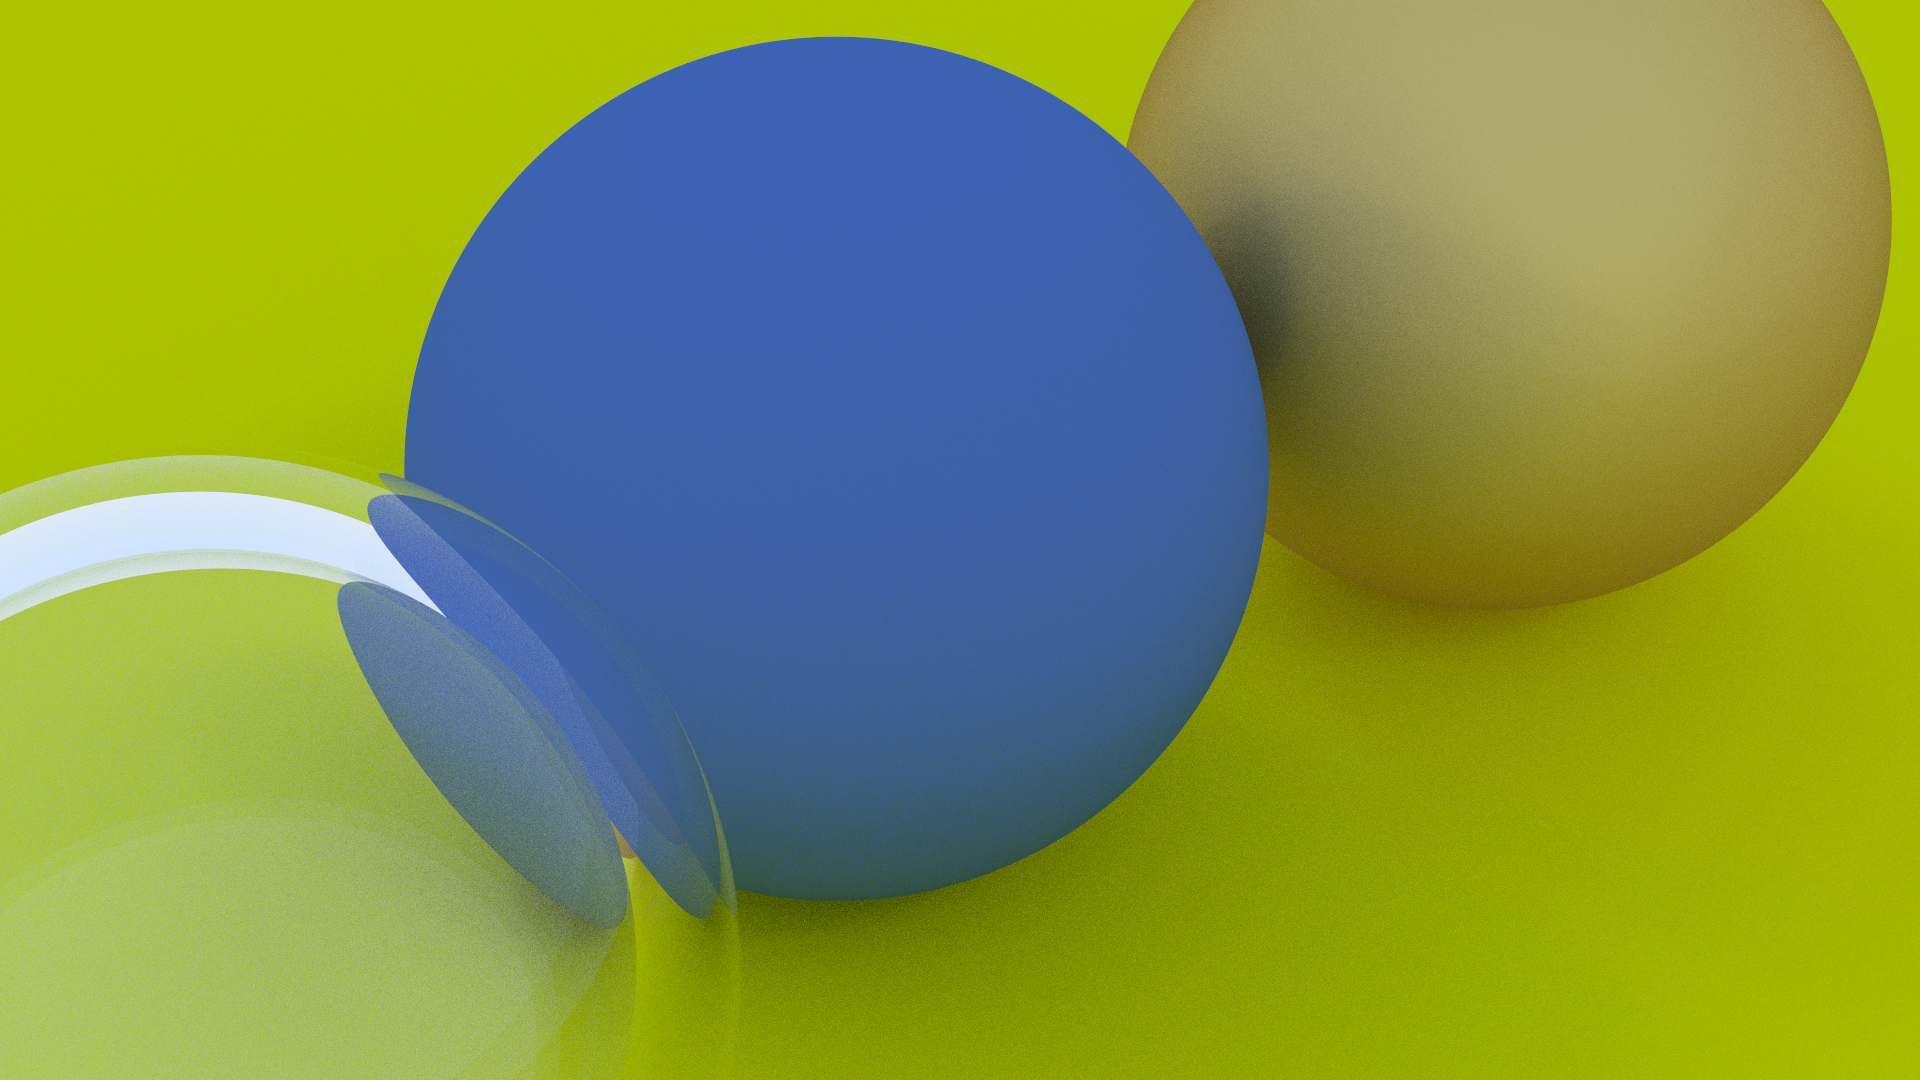
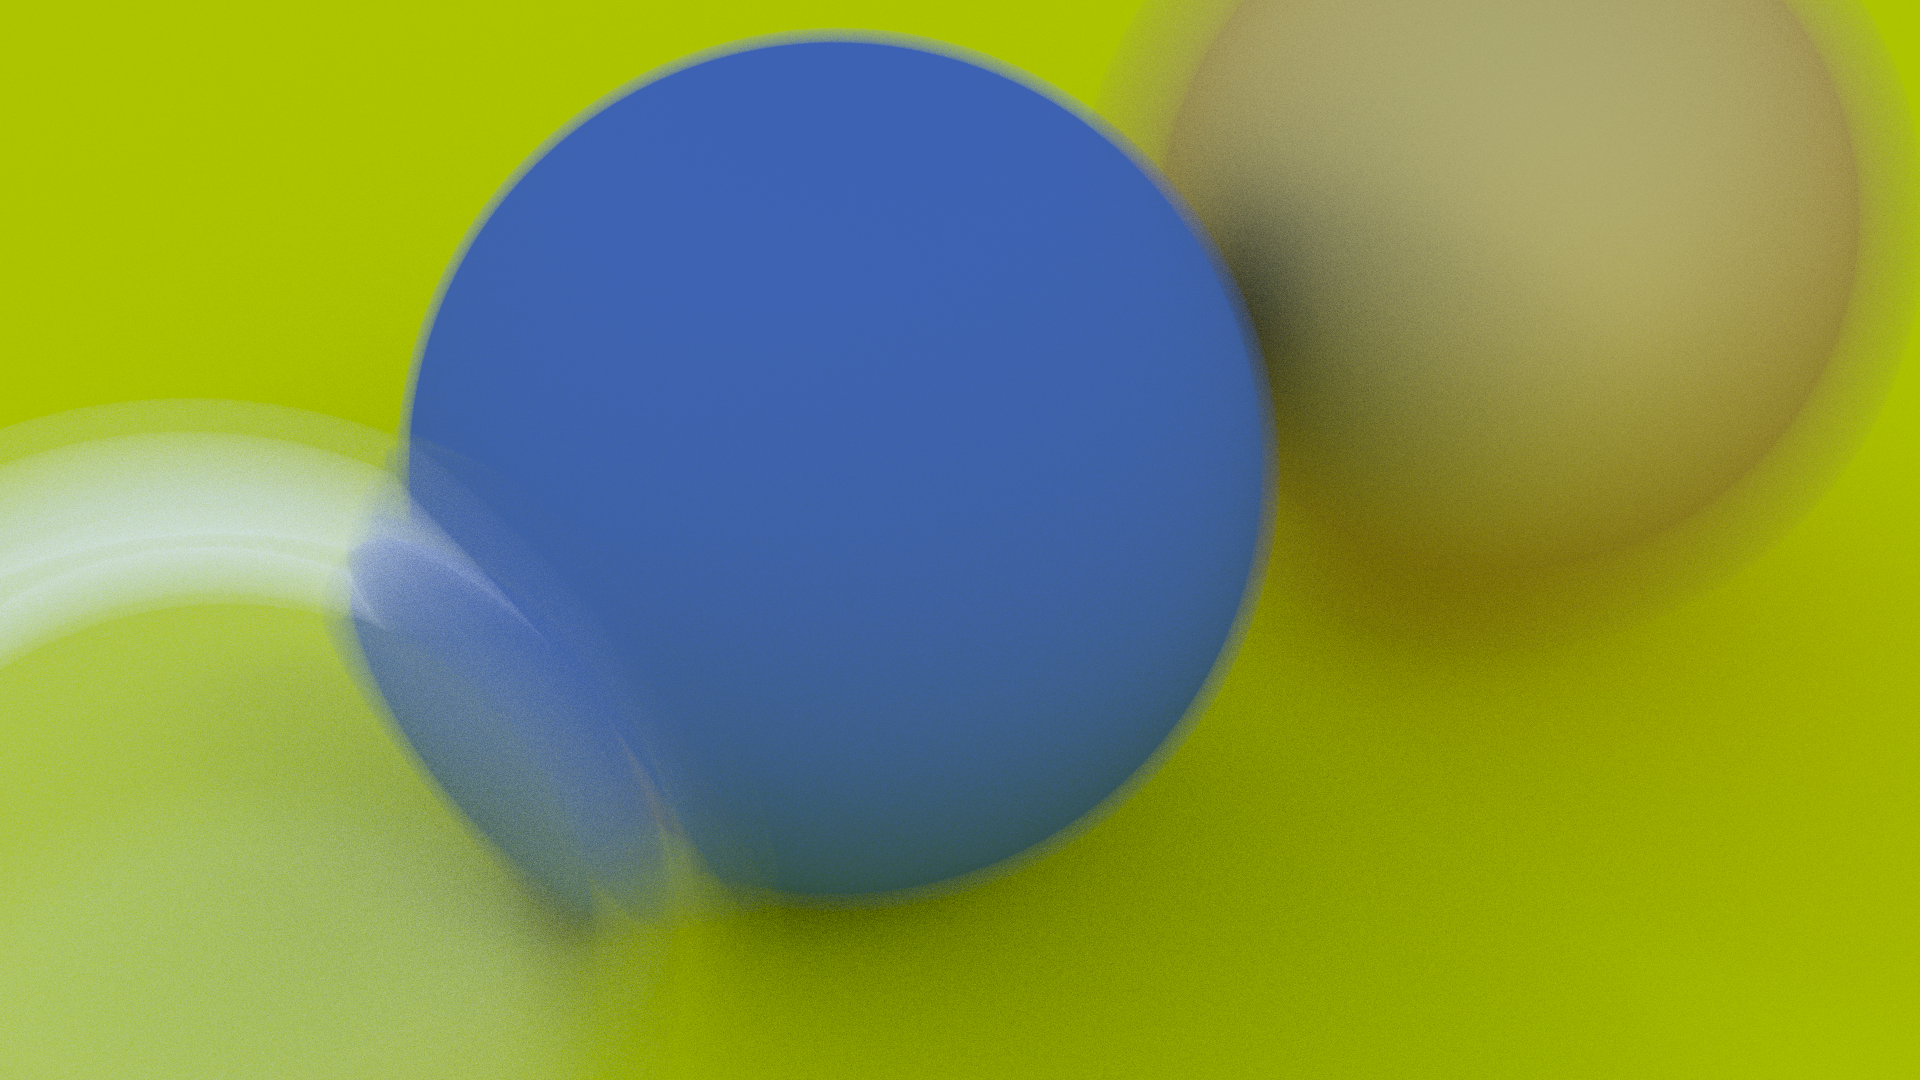
Depth of field

diff --git a/src/camera.rs b/src/camera.rs
@@ -18,6 +18,9 @@ pub struct Camera {
     pixel_delta_u: Vector3,
     pixel_delta_v: Vector3,
     pixel00_loc: Vector3,
+    defocus_angle: f64,
+    defocus_disk_u: Vector3,
+    defocus_disk_v: Vector3,
 }
 
 impl Camera {
@@ -30,6 +33,8 @@ impl Camera {
         look_from: Vector3,
         look_at: Vector3,
         vup: Vector3,
+        defocus_angle: f64,
+        focus_dist: f64,
     ) -> Camera {
         let mut image_height = (image_width as f64 / aspect_ratio) as u32;
         if image_height < 1 {
@@ -37,10 +42,9 @@ impl Camera {
         }
         let camera_center = look_from;
 
-        let focal_length = (look_from - look_at).length();
         let theta = vfov.to_radians();
         let h = (theta / 2.0).tan();
-        let viewport_height = 2.0 * h * focal_length;
+        let viewport_height = 2.0 * h * focus_dist;
 
         let w = (look_from - look_at).normalize();
         let u = vup.cross(&w).normalize();
@@ -54,9 +58,13 @@ impl Camera {
         let pixel_delta_v = viewport_v / (image_height as f64);
 
         let viewport_upper_left =
-            camera_center - focal_length * w - viewport_u / 2.0 - viewport_v / 2.0;
+            camera_center - focus_dist * w - viewport_u / 2.0 - viewport_v / 2.0;
 
         let pixel00_loc = viewport_upper_left + 0.5 * (pixel_delta_u + pixel_delta_v);
+
+        let defocus_radius = focus_dist * (defocus_angle / 2.0).to_radians().tan();
+        let defocus_disk_u = u * defocus_radius;
+        let defocus_disk_v = v * defocus_radius;
 
         Camera {
             aspect_ratio,
@@ -69,6 +77,9 @@ impl Camera {
             pixel_delta_u,
             pixel_delta_v,
             pixel00_loc,
+            defocus_angle,
+            defocus_disk_u,
+            defocus_disk_v,
         }
     }
 
@@ -77,16 +88,28 @@ impl Camera {
     }
 
     fn get_ray(&self, x: u32, y: u32) -> Ray {
-        let offset_x = rng().random::<f64>() - 0.5;
-        let offset_y = rng().random::<f64>() - 0.5;
+        let mut rng = rng();
+        let offset_x = rng.random::<f64>() - 0.5;
+        let offset_y = rng.random::<f64>() - 0.5;
 
         let pixel_sample = self.pixel00_loc
             + ((x as f64 + offset_x) * self.pixel_delta_u)
             + ((y as f64 + offset_y) * self.pixel_delta_v);
 
-        let ray_direction = pixel_sample - self.camera_center;
+        let ray_origin = if self.defocus_angle <= 0.0 {
+            self.camera_center
+        } else {
+            self.defocus_disk_sample()
+        };
 
-        Ray::new(self.camera_center, ray_direction)
+        let ray_direction = pixel_sample - ray_origin;
+
+        Ray::new(ray_origin, ray_direction)
+    }
+
+    fn defocus_disk_sample(&self) -> Vector3 {
+        let p = Vector3::random_in_unit_disk();
+        self.camera_center + (p.x * self.defocus_disk_u) + (p.y * self.defocus_disk_v)
     }
 
     fn ray_color(ray: &Ray, hittable: &[Box<dyn Hittable>], depth: u32) -> Vector3 {

diff --git a/src/vector3.rs b/src/vector3.rs
@@ -49,6 +49,14 @@ impl Vector3 {
         )
     }
 
+    pub fn random_in_unit_disk() -> Vector3 {
+        let mut rng = rand::rng();
+        let theta = rng.random_range(0.0..std::f64::consts::PI * 2.0);
+        let x = theta.cos();
+        let y = theta.sin();
+        Vector3::new(x, y, 0.0)
+    }
+
     pub fn random_in_unit_sphere() -> Vector3 {
         let mut rng = rand::rng();
 

diff --git a/src/main.rs b/src/main.rs
@@ -19,6 +19,8 @@ pub fn generate_image(width: u32, aspect_ratio: f64) {
         Vector3::new(-2.0, 2.0, 1.0),
         Vector3::new(0.0, 0.0, -1.0),
         Vector3::new(0.0, 1.0, 0.0),
+        10.0,
+        3.4,
     );
 
     let material_ground = Box::new(Lambertian::new(Vector3::new(0.8, 0.8, 0.0)));
